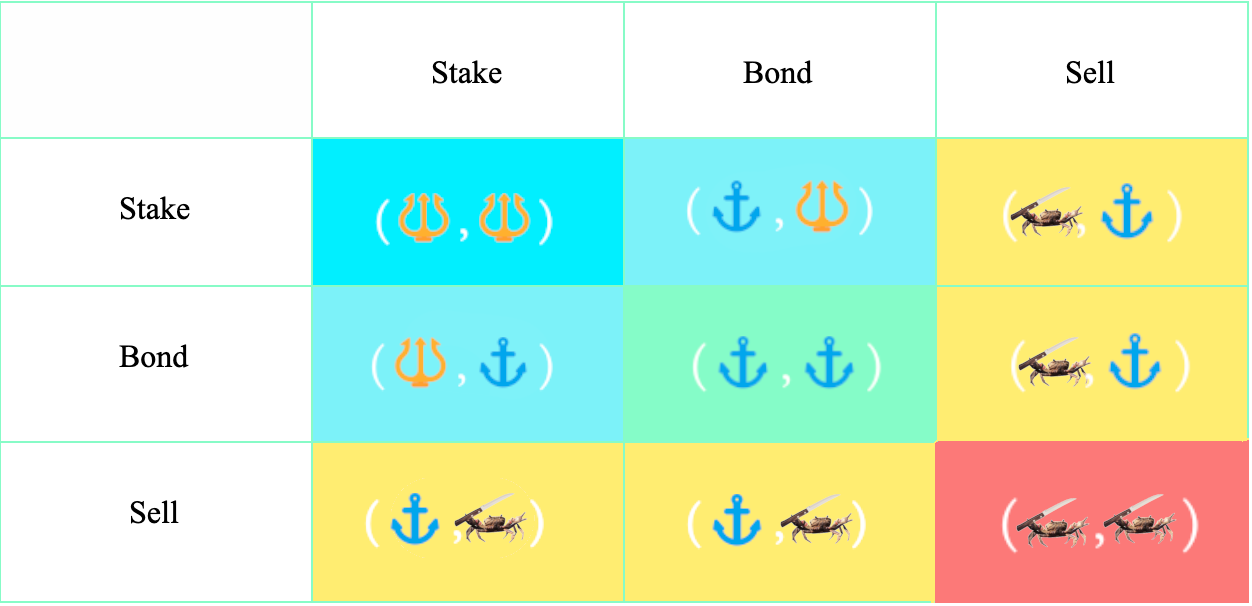
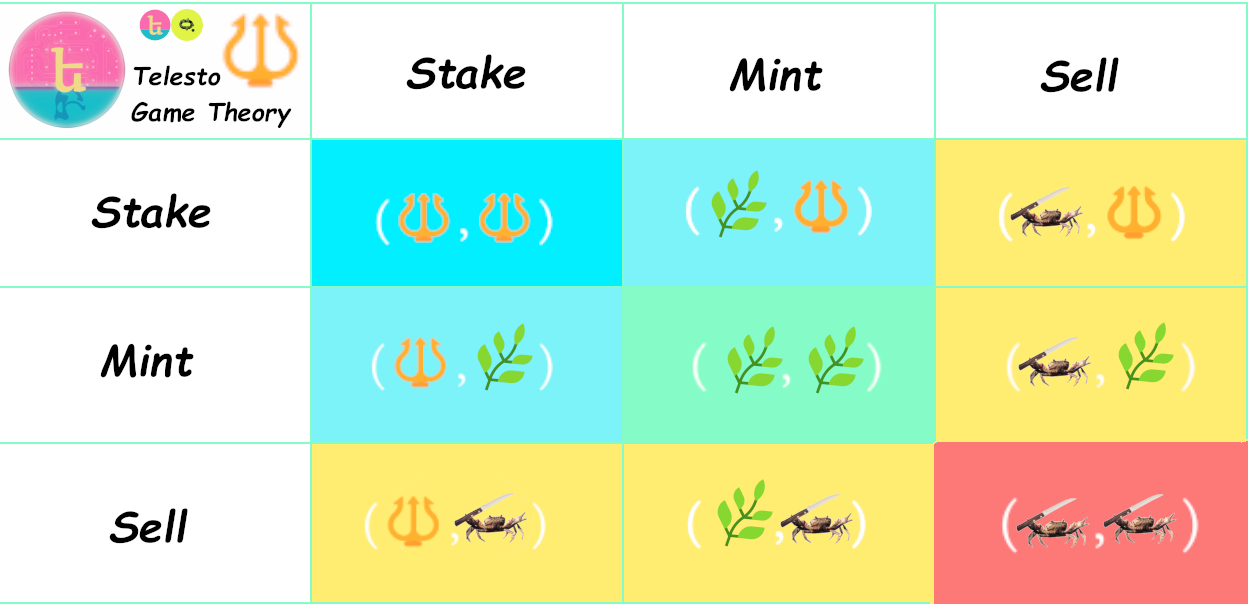
GitBook: [#42] 'updated game theory'

diff --git a/treasury-of-telesto/faq.md b/treasury-of-telesto/faq.md
@@ -26,12 +26,12 @@ Staking and bonding are considered beneficial to the protocol, while selling is 
 
 Thus, given two actors, all scenarios of what they could do and the effect on the protocol are shown here:
 
-![](../.gitbook/assets/game\_theory.png)
-
 * If we both stake (3, 3), it is the best thing for both of us and the protocol (3 + 3 = 6).
 * If one of us stakes and the other one bonds, it is also great because staking takes TELO off the market and put it into the protocol, while bonding provides liquidity and MC02 for the treasury (3 + 1 = 4).
 * When one of us sells, it diminishes effort of the other one who stakes or bonds (1 - 1 = 0).
 * When we both sell, it creates the worst outcome for both of us and the protocol (-3 - 3 = -6).
+
+![](<../.gitbook/assets/game\_theory (1).png>)
 
 ### What is PCV and why is it important? <a href="#ohm-is-backed-not-pegged." id="ohm-is-backed-not-pegged."></a>
 
